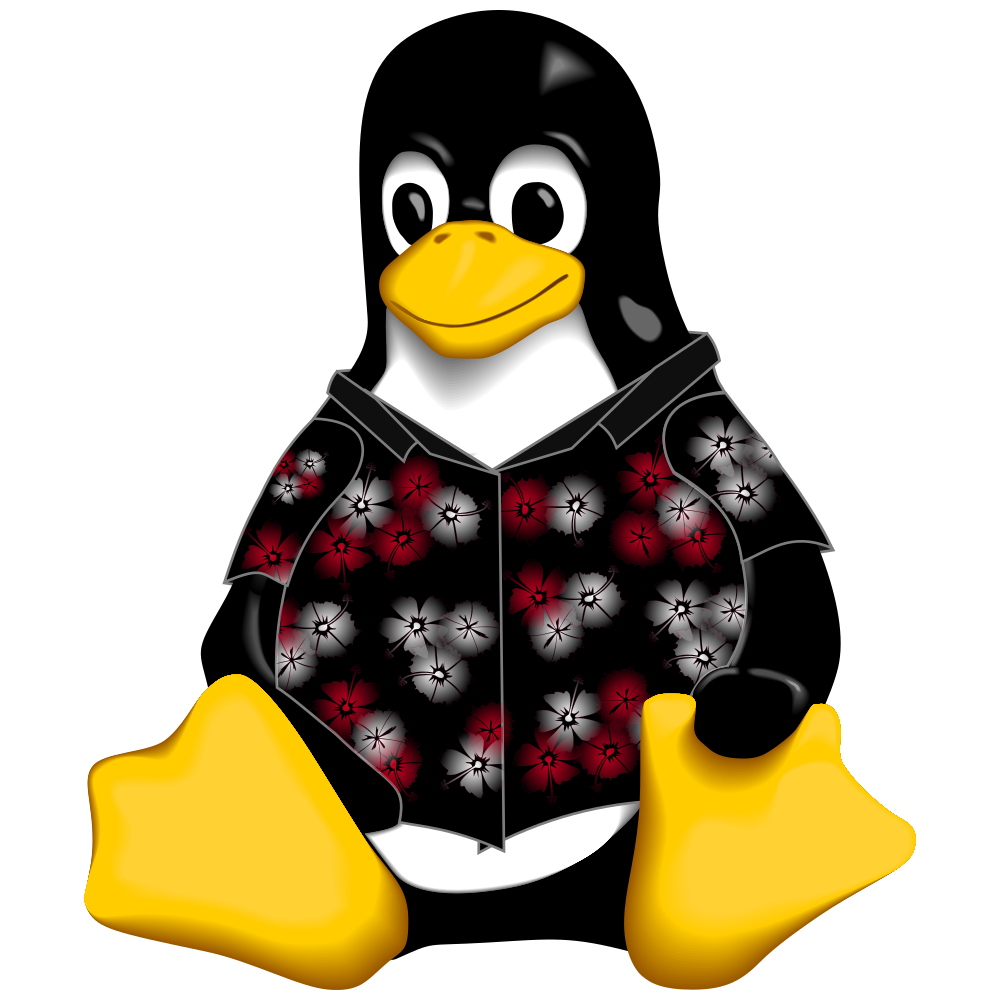
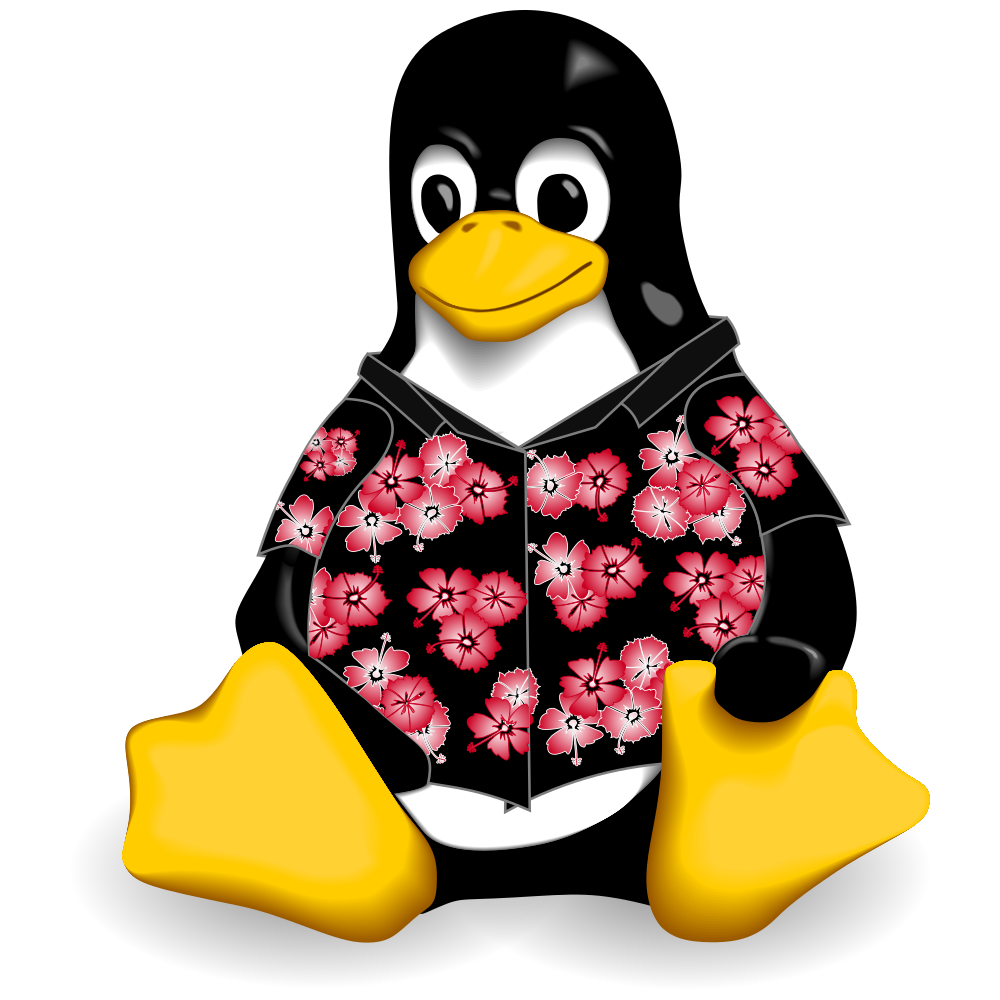
Updating pages

diff --git a/casualtux-flowerstripe.html b/casualtux-flowerstripe.html
@@ -1,0 +1,30 @@
+<html>
+<head>
+<title>Casual Tux FlowerStripe</title>
+</head>
+<body>
+<h1>
+Casual Tux FlowerStripe
+</h1>
+<p>Although FlowerStripe was inspired by Hawaiian shirts I saw, it wasn't just one shirt.  It was more of a trend.
+</p>
+
+<h2>Project on github<h2>
+
+<h3><a href="https://github.com/casualtux/penguin-flowerstripe">
+<img src="images/CasualTux-FlowerStripe.png" alt="CasualTux-FlowerStripe.png" style="width:150px;height:150px;" align="middle">
+Casual Tux Hawaiian</a>
+</h3>
+
+<h2>Variations<h2>
+
+<br><img src="https://github.com/casualtux/penguin-flowerstripe/blob/master/images/CasualTux-FlowerStripe-Red.png" alt="CasualTux-FlowerStripe-Red.png" style="width:150px;height:150px;" align="middle">
+Casual Tux FlowerStripe Red</a>
+<br><img src="https://github.com/casualtux/penguin-flowerstripe/blob/master/images/CasualTux-FlowerStripe-Purple.png" alt="CasualTux-FlowerStripe-Purple.png" style="width:150px;height:150px;" align="middle">
+Casual Tux FlowerStripe Purple</a>
+<br><img src="https://github.com/casualtux/penguin-flowerstripe/blob/master/images/CasualTux-FlowerStripe-Blue.png" alt="CasualTux-FlowerStripe-Blue.png" style="width:150px;height:150px;" align="middle">
+Casual Tux FlowerStripe Blue</a>
+
+
+</body>
+</html>

diff --git a/casualtux-hawaiian.html b/casualtux-hawaiian.html
@@ -13,17 +13,17 @@ Casual Tux Hawaiian
 
 <h2>Project on github<h2>
 
-<h3><a href="https://github.com/casualtux/casualtux-hawaiian">
+<h3><a href="https://github.com/casualtux/penguin-hawaiian">
 <img src="images/CasualTux-Hawaiian.png" alt="CasualTux-Hawaiian.png" style="width:150px;height:150px;" align="middle">
 Casual Tux Hawaiian</a>
 </h3>
 
 <h2>Variations<h2>
 
-<h3><a href="https://github.com/casualtux/casualtux-hawaiian/tree/master/variations/inception">
-<img src="https://github.com/casualtux/casualtux-hawaiian/raw/master/images/CasualTux-Hawaiian-inception.png" alt="CasualTux-Hawaiian-inception.png" style="width:150px;height:150px;" align="middle">
-Casual Tux Hawaiian Inception</a>
-</h3>
+<br><img src="https://github.com/casualtux/penguin-hawaiian/raw/master/images/CasualTux-Hawaiian-inception.png" alt="CasualTux-Hawaiian-inception.png" style="width:150px;height:150px;" align="middle">
+Casual Tux Hawaiian Inception
+<br><img src="https://github.com/casualtux/penguin-hawaiian/raw/master/images/CasualTux-Hawaiian-Multi.png" alt="CasualTux-Hawaiian-Multi.png" style="width:150px;height:150px;" align="middle">
+Casual Tux Hawaiian Multi
 
 
 

diff --git a/penguin/penguins.html b/penguin/penguins.html
@@ -3,9 +3,7 @@
 <title>Casual Tux Penguins</title>
 </head>
 <body>
-<h1>Original</h1>
-
-<h2><a href="https://github.com/casualtux/casualtux">Project on github</a><h2>
+<h1><a href="https://github.com/casualtux/casualtux">Original</a></h1>
 
 <img src="https://github.com/casualtux/casualtux/raw/master/images/CasualTux-blue.png" alt="CasualTux-blue.png" style="width:150px;height:150px;" align="middle">CasualTux-blue</a>
 <img src="https://github.com/casualtux/casualtux/raw/master/images/CasualTux-ColoringBook.png" alt="CasualTux-ColoringBook.png" style="width:150px;height:150px;" align="middle">CasualTux-ColoringBook</a>

diff --git a/index.html b/index.html
@@ -31,11 +31,9 @@ Casual Tux Hibiscus</a>
 Casual Tux Hawaiian</a>
 </h3>
 
-<h3><a href="casual-penguins.html">
-<img src="images/Casual-Penguins-HgOrBs.png" alt="Casual-Penguins-HgOrBs.png" style="width:300px;height:150px;" align="middle">
-Casual Penguins
-<img src="images/Casual-Penguins-HbOpBm.png" alt="Casual-Penguins-HbOpBm.png" style="width:300px;height:150px;" align="middle">
-</a>
+<h3><a href="casualtux-flowerstripe.html">
+<img src="images/CasualTux-FlowerStripe.png" alt="CasualTux-FlowerStripe.png" style="width:150px;height:150px;" align="middle">
+Casual Tux FlowerStripe</a>
 </h3>
 
 <h2>Patterns<h2>
